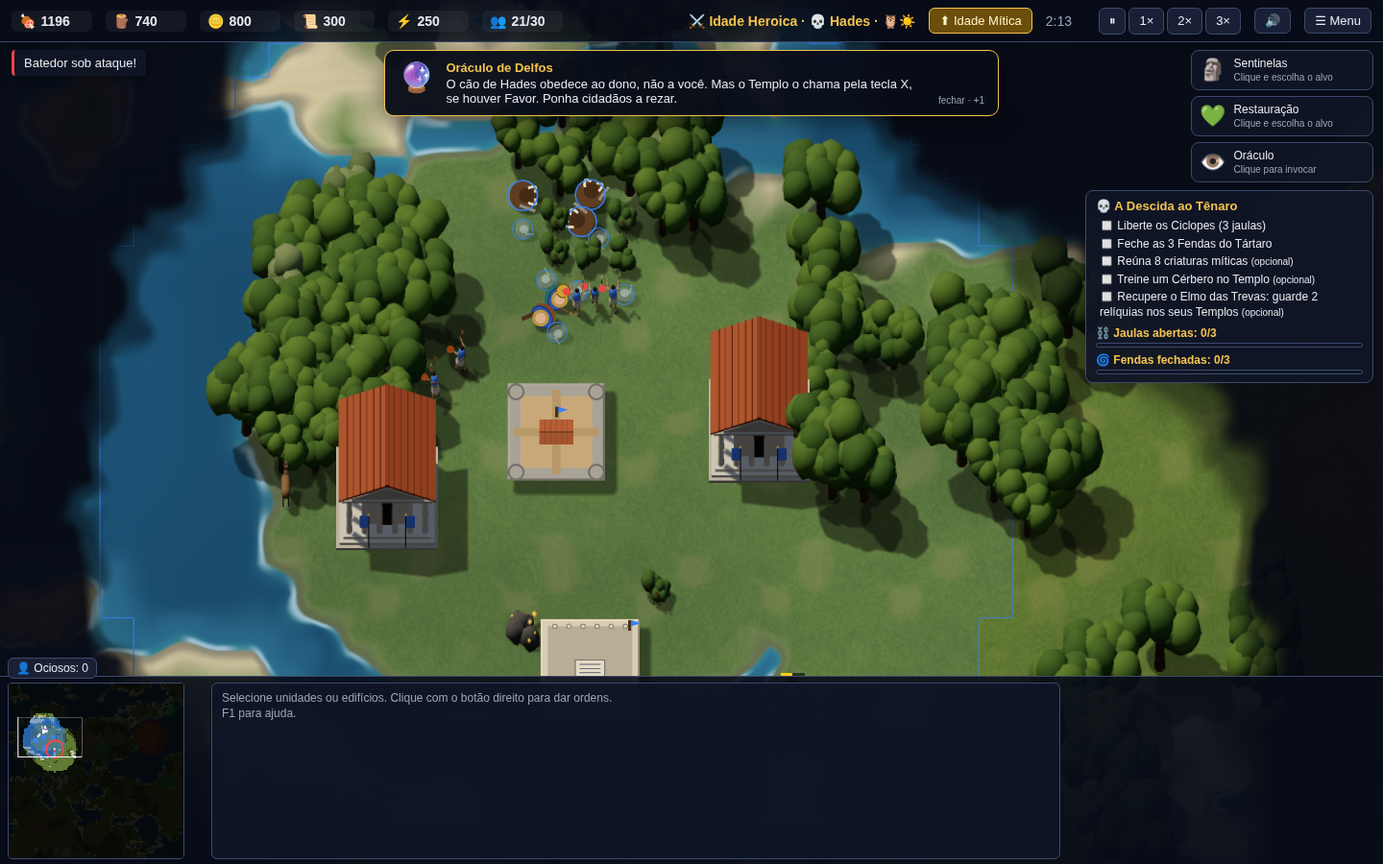
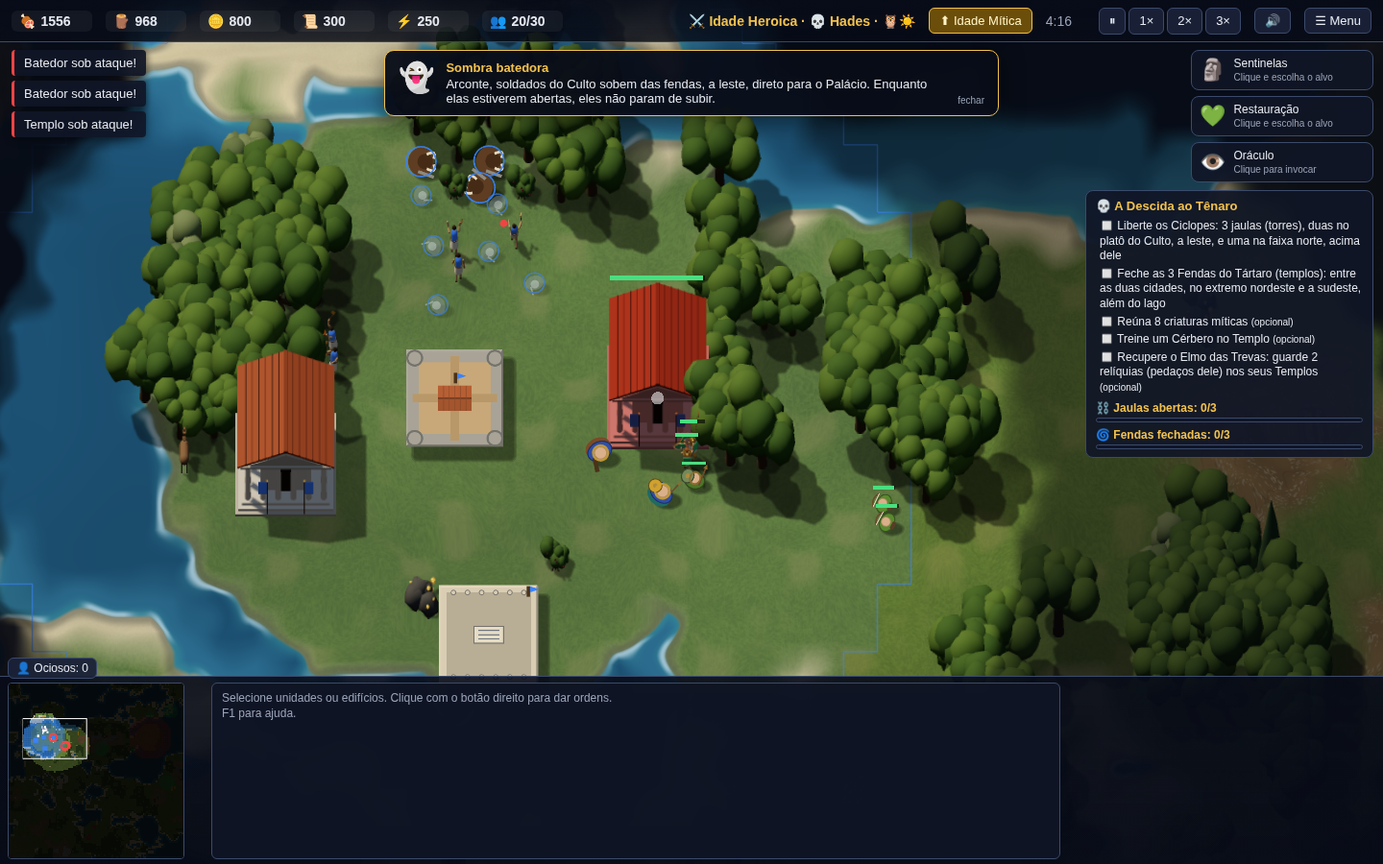
m9: correções da revisão (elenco, míticas do Culto, ondas nas fendas, textos com o onde)
- O Culto não treina heróis (forbid por jogador: Jasão, Odisseu, Aquiles, Héracles, Perseu); o jogador não treina Jasão nem Aquiles.
- O Culto ganha Hermes e Dionísio (Centauros e Hidras) e o Centauro vem primeiro na onda da fenda3, que sobrevive ao corte do Fácil; a dica do triângulo cita as criaturas que de fato aparecem.
- As ondas nascem na própria fenda (spawn escalado + attackMove até o Palácio), no lugar do raid com os ângulos da ficha, que nascia dentro da cidade (ângulo 5 a 5–6 tiles do Palácio).
- Objetivos e dicas dizem onde ficam as jaulas e as fendas, e citam o Oráculo; dica do raio roubado corrigida (fulmina o herói ou a mítica mais forte perto da cidade do Culto); o Elmo é descrito como partido em relíquias.
- O aviso das ondas passa para uma Sombra batedora; a fala da anagnórise vai para o 1º parágrafo do outro (antes saía atrás do modal de vitória).
- A derrota é a queda do Palácio (storeEntity #palacio), como a dica diz.
- Roteiro: vitória aos 21m34s / 22m51s / 32m00s; passiva: derrota aos 13m04s / 11m42s / 8m50s. STORY e ROADMAP atualizados; captura nova da m9.

Claude-Session: https://claude.ai/code/session_01T69iHgagsmM9EBeYq4tRST

diff --git a/docs/STORY.md b/docs/STORY.md
@@ -149,7 +149,7 @@ Legenda:
 | 6 | `m6_estatua` *(produzida)* | A Estátua de Zeus / *The Statue of Zeus* | **Maravilha com guarda cronometrada** (cobra: Idade Mítica pela Academia) | **maravilha** | Heroica | gen M continental, 6606 | 25–30 | ✅ | G4 ✅ (barra da guarda), G6 ✅, G8 ✅ |
 | 7 | `m7_aquiles` *(produzida)* | A Cólera de Aquiles / *The Wrath of Achilles* | **Caça ao herói** com o poder Oráculo (cobra: defesa de aldeias) | **caça ao herói** | Heroica | gen M forest, 7707 | 20–30 | ✅ | — (G11 ✅ permitiria trocar o paliativo de Tétis; decisão do dono) |
 | 8 | `m8_oceano` | A Maré de Oceano / *The Tide of Oceanus* | **Chefe-Titã com contagem regressiva**, Raio, invocar Prometeu (cobra: muralhas e torres) | **defesa** + chefe | Mítica | fixo 128×128 "Golfo da Argólida" | 30–35 | ✅ | — |
-| 9 | `m9_tenaro` *(produzida)* | A Descida ao Tênaro / *The Descent at Taenarum* | **Criaturas míticas, jogando como Hades** (cobra: heróis contra míticas) | resgate + cerco leve | Heroica | gen M lakes, 9909 | 25–30 | — | — (usa G3, G4, G6 `maxAge`, G8, G10 e G11 `powerUsed` ✅) |
+| 9 | `m9_tenaro` *(produzida)* | A Descida ao Tênaro / *The Descent at Taenarum* | **Criaturas míticas, jogando como Hades** (cobra: heróis contra míticas) | resgate + cerco leve | Heroica | gen M lakes, 9909 | 25–30 | — | — (usa G3, G4, G6 `maxAge` e `forbid`, G8, G10 e G11 `powerUsed` ✅) |
 | 10 | `m10_otris` | O Cerco de Ótris / *The Siege of Othrys* | **Cerco** (helépoles, muralhas concêntricas) + **Rei da Colina** no altar | **cerco** + **rei da colina** | Mítica | fixo 144×144 "Monte Ótris" | 30–35 | — | G2 ✅, G4 ✅ |
 | 11 | `m11_chamas` | Argos em Chamas / *Argos in Flames* | **Êxodo + poderes divinos um a um** (cobra: proteger o líder) | **regicídio** (proteger o arconte) + escolta em massa | Mítica | fixo 128×128 "Argólida em Chamas" | 18 (fixo) | — | G8 ✅, G9 ✅, G6 ✅ |
 | 12 | `m12_titanomaquia` | O Fim da Idade de Ouro / *The End of the Golden Age* | **Batalha final 3 × 1**: altares, depois Cronos, com Titãs (cobra: tudo) | **cerco** + chefe em fases | Mítica | fixo 144×144 "Planície da Tessália" | 35–40 | — | G6 ✅, G9 ✅ |
@@ -1090,15 +1090,24 @@ A paleta de bioma "Submundo" é visual e pedido da Fase 2 [G14]. Até lá, o ter
 
 **Produção (26/09/2026, `src/core/scenario/missions/m9_tenaro.scenario.json`) — o que mudou em relação ao JSON acima:**
 - **Posições no mapa real 9909.** Início 0 (Hades) em (22,34), início 1 (Culto) em (90,34), início 2 (sem ninguém) em (56,96). O platô do Culto (x 73–97, y 22–43) tem **uma só entrada por terra**, uma passagem de 3 tiles entre a serra e a mata (x 69–75, y 36–38); a faixa norte (y 12–21) e a terra do sudeste se alcançam por outros caminhos. Pelos deslocamentos da ficha, `jaula1`, `jaula2`, `fenda1` e `fenda2` caíam em bolsões inalcançáveis (clareiras da mata e a ponta leste depois do lago), e a 1ª tentativa de `fenda1` fechava a entrada do platô. Ficou assim (relativo ao início 1): `jaula1` (−10,+6), na borda sudoeste do platô; `jaula2` (+5,−5), junto ao Centro Cívico do Culto; `jaula3` (0,−14), na faixa norte (igual à ficha); `fenda1` (−32,+6), a oeste da entrada do platô; `fenda2` (+10,+28), além do lago do sul; `fenda3` (+12,−18), na ponta leste da faixa norte. Todas conferidas com `rectReachable` a partir do Palácio (a pé: 38 a 160 tiles). Os Ciclopes nascem no ponto da própria jaula.
-- **Ouro do Culto (paliativo do mapa).** A semente 9909 não põe ouro a menos de 26 tiles do início 1: a IA do Culto erguia minas junto ao Centro Cívico, mandava 20 cidadãos atravessar o mapa e não treinava **nenhum** soldado em 14 min. O Culto ganha **+1000 de ouro no `setup`** e **+100 por minuto** enquanto estiver de pé (gatilho `tesouro`); com isso chega à Mítica aos ~9 min, ergue Templo e exército e é eliminado pelo roteiro entre os 21 e os 26 min. Nem a IA nem os dados mudaram.
+- **Ouro do Culto (paliativo do mapa).** A semente 9909 não põe ouro a menos de 26 tiles do início 1: a IA do Culto erguia minas junto ao Centro Cívico, mandava 20 cidadãos atravessar o mapa e não treinava **nenhum** soldado em 14 min. O Culto ganha **+1000 de ouro no `setup`** e **+100 por minuto** enquanto estiver de pé (gatilho `tesouro`); com isso chega à Mítica aos ~9–10 min, ergue Templo e exército e é eliminado pelo roteiro aos ~21 min no Fácil e no Normal e só no fim (~32 min) no Difícil. Nem a IA nem os dados mudaram.
 - **Idade máxima Mítica** (`config.maxAge: 3`, G6) no lugar de `forbid: titan_gate`: o Titã de Hades seria o próprio Cronos, e sem o teto as duas IAs guardavam ouro para a Idade dos Titãs (o Culto a alcançava aos ~16 min) em vez de treinar.
 - **Dificuldade com G3:** fendas a cada 150/120/90 s e Perseu aos 60/90/150 s, como a ficha pede. `every` é o resto da divisão do relógio, então os `after` 180/240/300 da ficha não escalonam as fendas: elas pulsam juntas (no Normal, `fenda1` e `fenda2` aos 240 s e as três a partir dos 360 s).
 - **Relíquias (G10):** `map.relics` = [97,66] (perto da `fenda2`), [55,44] (perto da `fenda1`) e [95,13] (perto da `fenda3`); objetivo secundário `elmo` = 2 relíquias guardadas. Lint sem avisos (terra alcançável).
 - **Segredo `sombras` com G1** (`done` direto, sem gatilho espelho); o gatilho `sombras_legiao` dá os 150 de Favor quando ele se cumpre.
 - **Nomes (G8):** Jaula de Brontes / Estéropes / Arges e Fenda do Estige / Aqueronte / Flegetonte; facções `{ pt, en }` (*Legions of Hades*, *Cult of Cronus*, *Jailers of Cronus*).
 - **HUD (G4):** contadores "⛓ Jaulas abertas n/3" e "🌀 Fendas fechadas n/3" (`hud.progress { var, format: count }`).
-- **Falas novas** (além das da ficha): a Pítia com a tecla X do Cérbero (75 s); Hades na 1ª onda das fendas; Hades quando o Culto usa o **raio roubado** (`powerUsed`, G11 — a IA do Culto o gasta em Héracles ou Perseu no começo, e a fala diz que ele só cai uma vez); Arges com as três jaulas abertas; Hades ao recuperar o Elmo das Trevas ("foi com ele que Lícaon se escondeu entre os meus sacerdotes"); Hades no prêmio das Sombras. Dicas (`hints`) sobre o Palácio, o triângulo, o raio do Culto, as Sombras, as jaulas e fendas e as relíquias.
-- **Passiva:** derrota aos 13m39s / 11m25s / 7m36s (o rascunho media 15/10/8).
+- **Falas novas** (além das da ficha): a Pítia com a tecla X do Cérbero (75 s); uma **Sombra batedora** (👻) na 1ª onda das fendas; Hades quando o Culto usa o **raio roubado** (`powerUsed`, G11 — a IA do Culto o gasta em Héracles ou Perseu no começo, e a fala diz que ele só cai uma vez); Arges com as três jaulas abertas; Hades ao recuperar o Elmo das Trevas ("foi com ele que Lícaon se escondeu entre os meus sacerdotes"); Hades no prêmio das Sombras. A fala da anagnórise (`pacto`, "Lícaon me usou como um manto") virou o 1º parágrafo do `outro`. Dicas (`hints`, 7) sobre o Palácio, o triângulo (com as míticas que o Culto de fato usa), o raio do Culto, as Sombras, as jaulas (com o lugar de cada uma), as fendas (com o lugar e o Oráculo de Apolo) e o Elmo.
+- **Passiva:** derrota aos 13m04s / 11m42s / 8m50s (o rascunho media 15/10/8; a 1ª produção, com as ondas nascendo dentro da cidade, 13m39s / 11m25s / 7m36s).
+- **Revisão (26/09/2026), o que mudou depois da 1ª produção:**
+  - **Elenco:** o Templo da IA treina primeiro `perseus`, `achilles`, `heracles`, `odysseus` e `jason` (`ai.ts`), e o Culto punha Jasão (morto na m8), Odisseu (em dívida com Argos) e Aquiles (morto na m7) contra o jogador. O Culto tem `forbid.units` com os cinco heróis (G6 por jogador) e o jogador 0 não treina `jason` nem `achilles`.
+  - **Míticas do Culto** (a mecânica cobrada): com a Heroica pronta ele começava sem deuses menores e gastava o Favor em heróis, e o Pégaso da ficha é batedor desarmado (a IA o ignora). Agora `set minorGods: ["hermes", "dionysus"]` no `setup` (Centauros e Hidras, poderes Cessar-fogo e Pele de Bronze; na Mítica a IA ainda escolhe Hera ou Ártemis) e o Centauro vem **primeiro** na onda da `fenda3` (sobrevive ao corte do Fácil). Medido no roteiro: Centauros das fendas nas três dificuldades a partir de 5–6 min; Medusa, Centauro e Hidra do Culto no Normal e no Difícil (no Fácil o Culto não chega a treinar míticas). A dica do triângulo cita essas criaturas.
+  - **Ondas das fendas:** o `raid` com `angle` 3/1/5 da ficha nascia a oeste e dentro da cidade (a origem do ângulo 5 recuava até 5–6 tiles do Palácio, com o petróbolo já ao alcance dele), e os ângulos 0/7/1 põem a origem em cima das minas de ouro do jogador, a 22 tiles do Palácio (com o Culto já sem heróis, o Difícil do roteiro perdia aos 14–16 min com `distance` de 22 a 34). Cada onda agora **nasce na própria fenda** (`spawn` com `scaled` + `order attackMove` até `{ tc: 0 }`, o padrão de "desligar a fonte" da m5): chegam ao Palácio em ~12 s (Estige), ~35 s (Flegetonte, pela faixa norte) e ~35 s (Aqueronte, cavalaria). Por não serem `raid`, o harness não as conta em "invasões" (0/0).
+  - **Textos com o onde:** objetivos `jaulas` ("duas no platô do Culto, a leste, e uma na faixa norte, acima dele") e `fendas` ("entre as duas cidades, no extremo nordeste e a sudeste, além do lago"); dicas com a jaula de cada Ciclope (a de Estéropes junto ao Centro Cívico do Culto: é preciso invadir a cidade dele) e o Oráculo para achar as fendas.
+  - **Raio roubado:** a IA lança o Raio no herói ou mítica de maior `maxHp` (×1,5 se herói) a até 40 tiles do Centro Cívico dela, sem olhar névoa nem escolta; a dica agora diz isso e manda um Cérbero na frente com os heróis longe (a Fenda do Estige e a relíquia [55,44] já estão ao alcance).
+  - **Elmo:** as três relíquias são iguais; a dica e o objetivo dizem que o Elmo foi partido e que duas relíquias (pedaços) nos Templos o recompõem.
+  - **Tom (§1.2):** o aviso das ondas saiu de Hades para a Sombra batedora. Hades fala no início, no raio roubado (virada), no Elmo (a pista de como Lícaon se escondeu) e no prêmio das Sombras: exceção registrada por ele ser o patrono do jogador nesta missão, como Zeus nas de Argos; a fala final está no `outro`.
+  - **Derrota:** o `setup` guarda o Palácio (`storeEntity` `#palacio` = `{ tc: 0 }`) e a derrota é `{ entity: { tag: "palacio" }, exists: false }`, como a dica diz ("o Centro Cívico inicial"); antes, com uma 2ª cidade, perder o Palácio não encerrava a missão.
 
 **Dificuldade:**
 - **Hoje:** as ondas das fendas escalam e o Culto joga como IA Difícil.
@@ -1621,7 +1630,7 @@ Cada missão ganha 4 verificações, rodadas por `npx tsx scripts/missions.ts` e
 | m6 | Sem Mítica e sem Estátua: não vence. **Medido no rascunho:** ainda em jogo aos 20 min no Fácil e no Normal; derrota perto dos 19 min no Difícil. **Medido (produção):** em jogo aos 14 min nas três dificuldades (as 2 ondas da Frota, ambas com unidades); com 25 min, em jogo no Fácil, em jogo no Normal com Micenas caída aos 19m28s (Maravilha da Liga aos 14m53s), derrota aos 15m32s no Difícil (remedido depois da revisão, com o `micenas` contando só CC pronto; 19m28s = 1168 s, o mesmo instante registrado antes como 19m27s) | IA econômica chega à Mítica; o roteiro manda construir `wonder_zeus` perto do CC e pôr 6 cidadãos em `repair`. **Produção:** defesa sempre (`hold`), cofre com o custo da Estátua na Mítica, obra com 6 cidadãos quando há ≥ 28 militares, até 4 torres ao redor, 6 cidadãos no reparo, exército a ≤ 28 tiles da Estátua e foco no Colosso | 25–35 min · janela estrita 17m30s–39m. **Medido:** vitória aos 19m17s / 22m36s / 24m35s (Fácil / Normal / Difícil); Mítica aos 6m22s / 8m39s / 6m20s, Estátua pronta aos 14m16s / 16m35s / 18m34s, nenhuma queda, 5 / 7 / 7 invasões (todas com unidades), segredo cumprido no Normal e no Difícil. **Depois da revisão** (`npx tsx scripts/missions.ts 14 m6_estatua easy,normal,hard`): os mesmos 19m17s / 22m36s / 24m35s, passiva em jogo aos 14 min nas três, todos os objetivos cumpridos (menos o segredo no Fácil, que não tem 2º Colosso) **Depois da correção do viés de posição (26/09/2026):** 19m36s / 20m02s / 22m17s. |
 | m7 | Aquiles queima as aldeias uma a uma (`aldeias` falha); não vence. **Medido no rascunho:** as 4 aldeias são colocadas, e `rota1`/`rota2` derrubam as aldeias 1 e 2 em 20 min. **Medido (produção, depois da revisão):** em jogo aos 14 min nas três dificuldades; as aldeias caem uma por marcha, sempre com Aquiles a ≤ 1,4 tile (a escolta sai com ele do acampamento): aos 2m54s / 6m54s / 11m01s / 15m07s no Fácil (3 em 14 min), 2m54s / 5m54s / 9m01s / 12m08s no Normal e 2m53s / 4m54s / 7m00s / 9m07s no Difícil; `aldeias` falha na 3ª; a invasão da Liga (a única `raid`) tem unidades | Arqueiros cretenses e hipaspistas esperam na `aldeia2`; o poder Oráculo é usado aos 150 s. **Produção:** defesa (`hold`), Oráculo e Raio guardados para o roteiro (`keepPowers`), cidadãos até 40, filas militares (hipaspistas, arqueiros cretenses, cavalaria e petróbolos) com Estábulo e Oficina de Cerco, Oráculo quando Aquiles marcha (150 s), **vigia**: depois da 1ª marcha, o exército espera Aquiles na aldeia da vez (aldeia2 → 3 → 4) quando tem ≥ 2 × quem marcha com ele e volta para casa com inimigos a até 22 tiles do CC (a Liga), Raio/Restauração na batalha (o Raio em Aquiles só o devolve às naus), assalto às naus com ≥ 80 militares e ≥ 2 × os do jogador 2 (infantaria, cavalaria e cerco na Fortaleza; arqueiros nos mirmidões) e, sem as naus, todos em Aquiles | 20–30 min · janela estrita 14m–39m. **Medido (depois da revisão):** vitória aos 16m26s / 16m16s / 19m58s (Fácil / Normal / Difícil), com o acampamento queimado aos 16m26s / 16m13s / 19m57s e Aquiles morto junto dele. **Interceptar salva aldeias:** no Fácil a vigia chega à aldeia2 (que cai mesmo assim aos 6m55s, com o Raio em Aquiles 1 s antes) e **salva a aldeia3 e a aldeia4** (Aquiles cai na aldeia3 aos 10m55s) — `aldeias` **cumprido**; no Normal a vigia só tem força a partir da aldeia4, que é salva (Aquiles cai aos 11m46s), e `aldeias` falha (3 perdidas); no Difícil o exército não chega a 2 × a marcha antes da aldeia4 e as quatro caem. Tétis devolveu Aquiles 22 / 20 / 6 vezes (a maioria no cerco às naus); o aviso do Batedor saiu uma vez em cada dificuldade. Antes da revisão: 22m54s / 19m48s / 19m05s, as quatro aldeias perdidas nas três e o exército na `aldeia2` só quando a 2ª marcha saía (tarde) **Depois da correção do viés de posição (26/09/2026):** 17m47s / 17m00s / 22m52s, com o reagrupamento antes do assalto; `aldeias` falha nas três. |
 | m8 | Oceano derruba o CC: **derrota** em 12–20 min | IA econômica, 8 torres no sul, Raio em Oceano ao surgir, heróis em `attack` na tag `oceano` | 13–25 min |
-| m9 | Ondas das fendas até o Palácio cair. **Medido no rascunho:** derrota aos 15, 10 e 8 min (Fácil, Normal, Difícil). **Medido (produção):** derrota aos 13m39s / 11m25s / 7m36s; 12 / 11 / 9 invasões até a derrota, todas com unidades | Míticas e heróis fazem `attackMove` para `jaula1..3` e depois `fenda1..3`. **Produção:** casas antes do teto de população, filas com as míticas do Templo, e um alvo por vez na ordem da caminhada (`fenda1` → `jaula1` → `jaula2` → `jaula3` → `fenda3` → `fenda2`), cada um quando o exército tem ≥ 40 militares (detalhes abaixo) | 22–35 min (§7.2) · janela estrita 17m30s–39m (§4 ±30 %). **Medido:** vitória aos 24m53s / 22m42s / 33m52s (Fácil / Normal / Difícil); `miticas`, `cerbero` e `elmo` cumpridos nas três, segredo `sombras` em nenhuma; 20 / 22 / 50 invasões, todas com unidades; o Culto é eliminado entre os 21 e os 26 min |
+| m9 | Ondas das fendas até o Palácio cair. **Medido no rascunho:** derrota aos 15, 10 e 8 min (Fácil, Normal, Difícil). **Medido (produção):** derrota aos 13m39s / 11m25s / 7m36s; 12 / 11 / 9 invasões até a derrota, todas com unidades. **Depois da revisão** (ondas nascendo nas fendas, sem `raid`): 13m04s / 11m42s / 8m50s | Míticas e heróis fazem `attackMove` para `jaula1..3` e depois `fenda1..3`. **Produção:** casas antes do teto de população, filas com as míticas do Templo, e um alvo por vez na ordem da caminhada (`fenda1` → `jaula1` → `jaula2` → `jaula3` → `fenda3` → `fenda2`), cada um quando o exército tem ≥ 40 militares (detalhes abaixo) | 22–35 min (§7.2) · janela estrita 17m30s–39m (§4 ±30 %). **Medido:** vitória aos 24m53s / 22m42s / 33m52s (Fácil / Normal / Difícil); `miticas`, `cerbero` e `elmo` cumpridos nas três, segredo `sombras` em nenhuma; 20 / 22 / 50 invasões, todas com unidades; o Culto é eliminado entre os 21 e os 26 min. **Depois da revisão:** vitória aos **21m34s / 22m51s / 32m00s**; `miticas` e `cerbero` nas três, `elmo` só no Normal, `sombras` em nenhuma; o Culto cai aos ~21 min no Fácil e no Normal e só no fim no Difícil |
 | m10 | Sortidas até o CC cair: **derrota** em 15–25 min | Exército no altar até `altar_s` = 120; helépoles em `portao_bronze` e depois nos pilares | 25–40 min |
 | m11 | Ninguém embarca: **derrota** aos 18 min (ou antes, se o arconte cair) | Arconte e cidadãos fazem `move` até `naus` em 3 levas (aos 200, 500 e 740 s); poderes usados nos grupos das ondas | vitória entre 13 e 18 min |
 | m12 | Os aliados seguram; aos 25 min Cronos surge e derruba a Nova Argos: **derrota** em 30–40 min | IA econômica com os aliados; o exército faz `attackMove` nos 3 altares; Raio e Perseu em Cronos | 30–45 min |
@@ -1644,7 +1653,7 @@ Cada missão ganha 4 verificações, rodadas por `npx tsx scripts/missions.ts` e
 - Roteiro da **m6** (`MISSION_SCRIPTS.m6_estatua`, janela 17m30s–39m, `hold` sempre): a IA do jogador sobe à Mítica sozinha (a 4ª pesquisa da Academia); na Mítica, o **cofre** (`reserve`, utilitário novo do harness: enquanto a condição vale, a parte guardada do estoque fica escondida da IA do jogador durante o `aiThink` e volta logo depois; os passos veem tudo) segura 800/800/600/100 até a obra começar, senão a IA gastaria tudo a caminho da Idade dos Titãs. Com o custo e ≥ 28 militares, 6 cidadãos erguem a Estátua perto do CC; depois, até 4 torres a ≤ 9 tiles dela, 6 cidadãos no reparo sempre que ela sofre dano, filas militares com a sobra, o exército volta quando passa de 28 tiles, fuga da Tempestade, Raio/Restauração e foco no Colosso perto da Estátua. Sem o cofre, a Estátua não sai (Normal: em jogo aos 40 min, só `mitica` cumprida); nos rascunhos sem a espera pelo exército, ela saía cedo e caía no Difícil (derrota aos ~13 min). Um cofre que nunca vale não muda nada (mesmo `stateHash`, teste em `tests/missions.test.ts`).
 - Roteiro da **m7** (`MISSION_SCRIPTS.m7_aquiles`, janela 14m–39m, `hold` sempre): a IA do jogador guarda o Oráculo e o Raio (**poderes guardados**, `keepPowers`, utilitário novo do harness: durante o `aiThink` a IA os vê como já usados; os passos os usam na hora certa; sem o campo, nada muda) — ela gastaria o Oráculo no 2º segundo e o Raio no primeiro mirmidão perto de casa. Oráculo quando Aquiles marcha (`rota1`), **vigia** (`m7Guard`: depois da 1ª marcha, o exército espera Aquiles na aldeia da vez — a da marcha em curso, se ainda de pé com inimigos perto, ou a próxima ainda não atacada — quando tem ≥ `M7_GUARD_RATIO` = 2 × quem marcha com ele: Aquiles, os mirmidões do desembarque vivos e 5 de escolta; com inimigos a até 22 tiles do CC, volta para casa. Medido na revisão: sem essa folga, 18 militares na aldeia2 aos 5 min morriam todos e a IA do jogador não se reerguia, derrota aos 25–29 min no Normal e no Difícil), Raio/Restauração por `battlePowers`, Estábulo e Oficina de Cerco se a IA não os ergueu (sem petróbolos, as flechas mal arranham a Fortaleza e os assaltos do Difícil morriam nela até os 32–34 min). **Assalto às naus por estado, não por relógio:** com ≥ 80 militares e ≥ 2 × os do jogador 2 (continua enquanto metade do exército estiver a até 18 tiles delas: alguns perseguidores que chegam às naus atrás dos mirmidões não arrastam o exército inteiro); antes de avançar, sem ninguém lutando nas naus, o exército se **reagrupa** a `M7_STAGE` = 26 tiles delas (no rumo de Argos) e só avança com ≥ 70 % no ponto; perto delas, infantaria, cavalaria e cerco batem no acampamento e os arqueiros ficam nos mirmidões. Queimadas as naus, todos atrás de Aquiles. Medido nos rascunhos: com 55–70 militares a vitória saía aos 13–15 min em alguma dificuldade (no limite ou abaixo da janela); sem reforços fixos das naus, o Fácil ficava no limite (14m02s); com a pilha de mirmidões parando nas cinzas, a IA do jogador perdia o CC aos 5–7 min ou vencia aos 5–10 min por acaso.
   - **26/09/2026** (correção do viés de posição): o Fácil vencia aos 13m58s, abaixo da janela. A causa não era o roteiro, e sim a IA da Liga. A nova ordem de `findBuildSpot` encostava a mina no único veio de ouro dela (em [103,43], com 2 tiles de acesso) e o fechava. O nó sumia para `nearestNode`, e os mineiros iam ao ouro junto de Argos, a ~60 tiles. Ela perdeu 19 cidadãos até os 4 min e desmoronou. Corrigido na IA: `sealsNode` impede que um edifício tire o último acesso de um recurso. Depois disso, o 1º assalto do Normal e do Difícil chegava às naus aos poucos: 14 militares aos 14m00s e o resto 10–20 s depois, e o exército caiu de 82 para 39 em 1 min. Normal e Difícil passaram a vencer só aos 29m08s / 29m16s. Com o reagrupamento, o resultado é 17m47s / 17m00s / 22m52s. `aldeias` agora falha também no Fácil: a aldeia3 cai. Medido pelo revisor: sem o reagrupamento (e já com `sealsNode`) a m7 dá 15m13s (`aldeias` cumprido) / 29m08s / 29m16s — dentro da janela, então o reagrupamento não foi posto para caber nela; ele encurta Normal/Difícil, mas custa 2m34s e a aldeia3 no Fácil. Detalhe: com mais de 30 % do exército lutando longe do ponto, o passo espera o combate acabar.
-- Roteiro da **m9** (`MISSION_SCRIPTS.m9_tenaro`, janela 17m30s–39m, `hold` sempre): a IA do jogador joga por Hades (economia, defesa do Palácio, Sentinelas) e nunca sai em ondas; os passos treinam cidadãos até 40, erguem uma **Casa** perto do Palácio sempre que faltam menos de 15 de população (`m9House`: a IA só ergue a próxima com ≤ 6 de folga e as míticas ocupam 3 a 5 cada; sem isso o Normal ficava em 70/70 dos 7 aos 14 min e só fechava a 1ª fenda aos ~19 min, com 2 jaulas abertas aos 40 min), enchem as filas com `M9_MIX` (Minotauros, Mantícoras e Cérberos do Templo, hipaspistas, arqueiros cretenses e petróbolos) e atacam **um alvo por vez, na ordem da caminhada** a partir do Palácio (`M9_TARGETS`: `fenda1` a 38 tiles a pé, `jaula1` 64, `jaula2` 84, `jaula3` 87, `fenda3` 101 e `fenda2` 160), cada um quando o exército tem ≥ `M9_ASSAULT_ARMY` = 40 militares (estado, não relógio; o assalto segue enquanto ≥ 10 estiverem a 16 tiles do alvo) e com foco na jaula ou na fenda a 10 tiles. A ficha pedia as jaulas antes das fendas; a caminhada põe a `fenda1` (fora do platô) primeiro e a `fenda2` (além do lago do sul) por último. Os heróis vão com o exército; a IA do jogador manda o herói ocioso buscar a relíquia mais perto (até 45 tiles), e o Raio do Culto derruba Héracles no 1º minuto nas três dificuldades (Perseu chega depois e guarda as relíquias). **Medido:** 24m53s / 22m42s / 33m52s; no Difícil a economia desaba entre os 20 e os 26 min (4 a 9 cidadãos) e ele vence com a força já reunida e os 6 Ciclopes libertados. O Fácil vence depois do Normal (a 1ª fenda cai aos ~15 min, contra ~11,5 min): o exército do Fácil chega aos 40 militares mais tarde — partida de IA, caótica, sem relação com o desenho (ondas menores e mais espaçadas no Fácil).
+- Roteiro da **m9** (`MISSION_SCRIPTS.m9_tenaro`, janela 17m30s–39m, `hold` sempre): a IA do jogador joga por Hades (economia, defesa do Palácio, Sentinelas) e nunca sai em ondas; os passos treinam cidadãos até 40, erguem uma **Casa** perto do Palácio sempre que faltam menos de 15 de população (`m9House`: a IA só ergue a próxima com ≤ 6 de folga e as míticas ocupam 3 a 5 cada; sem isso o Normal ficava em 70/70 dos 7 aos 14 min e só fechava a 1ª fenda aos ~19 min, com 2 jaulas abertas aos 40 min), enchem as filas com `M9_MIX` (Minotauros, Mantícoras e Cérberos do Templo, hipaspistas, arqueiros cretenses e petróbolos) e atacam **um alvo por vez, na ordem da caminhada** a partir do Palácio (`M9_TARGETS`: `fenda1` a 38 tiles a pé, `jaula1` 64, `jaula2` 84, `jaula3` 87, `fenda3` 101 e `fenda2` 160), cada um quando o exército tem ≥ `M9_ASSAULT_ARMY` = 40 militares (estado, não relógio; o assalto segue enquanto ≥ 10 estiverem a 16 tiles do alvo) e com foco na jaula ou na fenda a 10 tiles. A ficha pedia as jaulas antes das fendas; a caminhada põe a `fenda1` (fora do platô) primeiro e a `fenda2` (além do lago do sul) por último. Os heróis vão com o exército; a IA do jogador manda o herói ocioso buscar a relíquia mais perto (até 45 tiles), e o Raio do Culto derruba Héracles no 1º minuto nas três dificuldades (Perseu chega depois e guarda as relíquias). **Medido (1ª produção):** 24m53s / 22m42s / 33m52s. **Medido depois da revisão** (Culto sem heróis e com Centauros/Hidras, ondas nascendo nas fendas): **21m34s / 22m51s / 32m00s**; a `fenda1` cai aos 9m19s / 11m12s / 19m06s, as três jaulas aos 20m06s / 20m34s / 29m45s e a `fenda2` (a última) fecha a missão. Agora o Fácil vence antes do Normal. No Difícil Perseu cai aos ~7 min, a 1ª fenda só cai aos 19 min e a economia cai a 11–15 cidadãos depois dos 25 min; ele vence com a força reunida e os 6 Ciclopes.
 - Roteiros do prólogo: **m2** — defesa (a IA do jogador nunca sai em ondas), cidadãos até 38, filas militares cheias com mix de infantaria pesada/míticas/arqueiros, fuga da Tempestade de Raios; a partir dos 14 min contra-ataca quando tem ≥ 30 militares e ≥ 2,5 × os da Legião, com Raio/Restauração e foco no Centro Cívico original. **Reajuste de 26/09/2026** (IA relativa ao centro do mapa; a missão não mudou): cidadãos com um militar inimigo a ≤ 6 tiles se abrigam (`shelterVillagers`; no Difícil a onda dos 7 min levava 10 cidadãos que seguiam coletando), o foco no CC só vale com ≤ 4 defensores a 15 tiles — com mais, quem batia no CC volta ao ataque-movimento (`m2Siege`) — e um CC alvo a ≤ 25 % da vida é terminado sem esperar a vantagem. Sem isso o Difícil perdia aos 19m58s (64 militares contra 19 e o CC guarnecido); na 1ª correção, 14m54s / 15m01s / 21m47s; depois do rodízio das IAs por rodada, dos desempates locais e de `sealsNode`, 19m33s / 15m32s / 15m25s (a Fortaleza fica de pé nas três). Na versão intermediária, sem `sealsNode`, o Difícil da m2 ficava em jogo aos 35 min, o da m3 perdia aos 15m19s e o da m6 aos 20m09s. **m3** — defesa e treino enquanto o Culto reza; aos 17,5 min (ritual em ~85 %) assalto ao Portal com foco nele; se Cronos surgir, Raio e exército nele perto de Argos.
 
 ---

diff --git a/docs/ROADMAP.md b/docs/ROADMAP.md
@@ -53,7 +53,7 @@ Objetivo: a Titanomaquia em 3 atos, 12–15 missões.
 | 3.1 | 🔶 Roteiro "Titanomaquia" em `docs/STORY.md`: 12 missões em 3 atos (prólogo m1–m3 intacto + m4–m12), personagens (Pítia, heróis, Lícaon o Rei-Lobo, deuses, Titãs), fichas com JSON validado, lacunas do motor G0–G17, EA = m1–m8. Pendente: revisão do dono (tom, nomes, final) | V + A | 6–8 |
 | 3.2 | ✅ Editor interno (`docs/EDITOR.md` Etapas 3–5): ✅ operações desfazíveis com inversa exata (`src/editor/ops.ts`, `editor.ts`, 24 testes) e renderização do editor (invalidação por chunk, pincel, fantasmas, inícios, kit, grade, regiões, passabilidade). ✅ interface DOM (aba Editor: novo/rascunho/Meus mapas/importar; painel com paleta, pincel, jogador ativo, inspetor, validação com Ir até/Corrigir; Testar contra IAs e voltar ao editor; salvar/exportar/propriedades; `playtest-editor.mjs`). ✅ Etapa 5 parte 1: cenários declarativos em JSON (`src/core/scenario/schema.ts`, `compile.ts`, `text.ts`; gramática fechada validada, compilação com cache por idioma, missão 1 em JSON com paridade contra a versão TS, 27 testes). ✅ Etapa 5 parte 2: modal Gatilhos no editor (JSON validado, modelos, pegar ponto), Testar com cenário, Cenários personalizados na campanha, cenário no lobby e `scenarioData` validado em todos os clientes, HUD genérico (`def.hud`), `playtest-scenario.mjs`. ✅ Etapa 4 (25/09/2026): lista de validação com Ir até/Corrigir para todos os avisos corrigíveis (gargalo também de terreno, bolsão, recurso sem acesso, colina, início fora da margem, maravilha, CC sem kit), tabela de recursos por início (raio 16), balde (`F` e botão 🪣), conta-gotas (`P`/💧/`Alt+clique`), redimensionar nas Propriedades (âncora, prévia do que é cortado, desfazível), anel de recursos e colina no editor, atalhos finais sem `A`/`R`/`U` (Unidades = `M`, regiões = `L`); `checkMap` (`src/core/map/check.ts`) em `map:check` e em `tests/data.test.ts`; os dois mapas oficiais redesenhados por script reprodutível com as ops do editor (`scripts/maps/`); `playtest-editor.mjs` cobre balde, conta-gotas, Corrigir gargalo, redimensionar e os mapas oficiais (abrir, testar, voltar; capturas `docs/art/editor-<id>.png`) | A | 7–10 |
 | 3.3 | ✅ Mapas fixos (`docs/EDITOR.md`, Etapas 1–2): formato `FixedMapData` com entidades pré-colocadas, kit inicial, times por início, colina e relíquias; forma canônica, hash, validação (erros/avisos traduzidos), migração; `createGame` aplica tudo; hash do estado cobre terreno e nós; biblioteca local (Meus mapas), mapa embutido `estreito`, seletor na Partida rápida e no lobby (validação, limite de oponentes, ordem de inícios por time), importar/exportar/guardar, `scripts/export-map.ts`, `mapcheck.ts`, `smoke/balance -- --map`. Dois mapas oficiais desenhados por script (Etapa 4, `scripts/maps/estreito.ts` e `egeu.ts`, com as ops do editor, simetria exata e vizinhança de cada início idêntica também na orientação): **Estreito** (1v1, 80×80: estreito diagonal com três vaus, o central guardado por rochedos) e **Egeu** (2v2, 113×113, times `[1,1,2,2]`: mar com três ilhas ligadas às costas por baixios, colina e ouro na ilha central); sem avisos, recursos idênticos por início, sem relíquias sorteadas, nenhuma rota selável por um único edifício (corte ≥ 5, `routeReport`) e reprodutíveis (teste). Balanço (35 min, IA Normal): Estreito Clássica 5–6, Heroica 13–18, Mítica 17–21, Titãs 27; Egeu (4 IAs) Clássica 5–6, Heroica 13–17, Mítica 18–22, Titãs 25–32; nenhuma IA parada aos 5 min. Justiça em espelho (`fairness.ts`, 45 min, duas ordens de inícios, decididas + à frente), depois da correção do viés de posição do motor/IA (26/09/2026; antes o Egeu dava norte 23 × 7 nas sementes 1–16 e 33 × 11 nas 101–124): a posição não decide mais — união de 96 partidas por mapa: Egeu 45 × 44 decididas, Egeu transposto 49 × 40, Estreito 48 × 46 —, mas nem todo conjunto de 16 sementes passa: Estreito 1–16 por posição 11 × 21 (66 %) e Egeu 1–16 por índice 10 × 20 decididas (67 %; 63 % com as à frente); as sementes 101–132 ficam dentro nos dois eixos (`docs/EDITOR.md`) | A | 8–9 |
-| 3.4 | 🔶 Produção das missões (2 por semana) com objetivos variados: escolta, defesa, caça ao herói, corrida, maravilha, cerco. ✅ **m4 O Fogo do Cáucaso** (fecha o Ato I; expedição sem cidade, fronteiras e atrito, 2ª cidade; 1º mapa fixo da campanha, "Garganta do Cáucaso" 96×144, gerado de forma reprodutível por `scripts/maps/m4_caucaso.ts` com as operações do editor e embutido no cenário; 3 dificuldades com G3; `tests/m4_caucaso.test.ts`; revisão: Prometeu longe da Águia, falas em fila no HUD, textos que dizem o que e onde, derrotas e contra-ataques corrigidos, Fácil com as 3 correntes). ✅ **m6 A Estátua de Zeus** (abre o Ato II; Maravilha com guarda cronometrada de 6 min, 5 no Fácil, e Mítica pela Academia; mapa gerado continental 6606; Micenas aliada, Liga do Istmo e a Frota de Poseidon como marionete com 2 Colossos; 3 dificuldades com G3, segredo com G1, barra da guarda com G4 (`hud.progress { var }`), Colossos com nome (G8) e Portais dos Titãs proibidos com G6 (`config.forbid`), no lugar dos paliativos; `tests/m6_estatua.test.ts`). ✅ **m5 O Hóspede de Ítaca** (abre o Ato II; escolta de Odisseu da praia de Náuplia a Argos, com a caça guiada pelas torres de sinal, os caçadores da estrada, o vau e o Heraion; Mercado cobrado pelo resgate de 1500 de ouro, oferecido pelo Emissário aos 15/16/17 min ou quando a fogueira do norte cai; 2º mapa fixo, "Planície da Argólida" 128×112, gerado por `scripts/maps/m5_itaca.ts` e embutido no cenário; 3 dificuldades com G3; `tests/m5_itaca.test.ts`). ✅ **m7 A Cólera de Aquiles** (Ato II; caça ao herói com o Oráculo; mapa gerado forest 7707 com as 4 aldeias em pontos alcançáveis, na ordem "a mais perto das naus"; Aquiles, os mirmidões do desembarque e a escolta de cada marcha (marionete) saem juntos do acampamento, queimam uma aldeia por marcha e voltam às naus, e a marcha espera se houver luta no acampamento; paliativo do Raio de Zeus sem G11: Tétis devolve Aquiles às naus a cada queda enquanto o acampamento estiver de pé, que por isso virou objetivo principal (interceptar salva a aldeia; só queimar o acampamento vence); reforços das naus de guarda até um teto (20/26/30); a Liga invade uma vez pelo leste; 3 dificuldades com G3 (marchas a 240/180/120 s), segredo de Odisseu com G1; `tests/m7_aquiles.test.ts`; revisão: textos com o que e onde, falas que não mentem quando o jogador salva aldeias, aviso de Tétis fora do cerco). ✅ **m9 A Descida ao Tênaro** (abre o Ato III; joga-se como Hades, com Minotauros, Mantícoras, Cérbero no Templo e Sombras, e Héracles e Perseu contra as míticas do Culto; mapa gerado lakes 9909 com as 3 jaulas dos Ciclopes (torres dos Carcereiros, marionete) e as 3 fendas (templos) em terra alcançável — pelos deslocamentos da ficha, 4 das 6 caíam em bolsões e uma fechava a única entrada do platô do Culto; relíquias fixas com G10 (secundário do Elmo das Trevas), fendas a 150/120/90 s e Perseu aos 60/90/150 s com G3, segredo das Sombras com G1, nomes com G8, contadores de jaulas/fendas no HUD com G4, Idade máxima Mítica com G6 e a fala do raio roubado com G11 `powerUsed`; o Culto recebe 1000 de ouro e 100/min porque a semente não põe ouro perto do início dele). Pendente: m8, m10–m12 | A | 9–18 |
+| 3.4 | 🔶 Produção das missões (2 por semana) com objetivos variados: escolta, defesa, caça ao herói, corrida, maravilha, cerco. ✅ **m4 O Fogo do Cáucaso** (fecha o Ato I; expedição sem cidade, fronteiras e atrito, 2ª cidade; 1º mapa fixo da campanha, "Garganta do Cáucaso" 96×144, gerado de forma reprodutível por `scripts/maps/m4_caucaso.ts` com as operações do editor e embutido no cenário; 3 dificuldades com G3; `tests/m4_caucaso.test.ts`; revisão: Prometeu longe da Águia, falas em fila no HUD, textos que dizem o que e onde, derrotas e contra-ataques corrigidos, Fácil com as 3 correntes). ✅ **m6 A Estátua de Zeus** (abre o Ato II; Maravilha com guarda cronometrada de 6 min, 5 no Fácil, e Mítica pela Academia; mapa gerado continental 6606; Micenas aliada, Liga do Istmo e a Frota de Poseidon como marionete com 2 Colossos; 3 dificuldades com G3, segredo com G1, barra da guarda com G4 (`hud.progress { var }`), Colossos com nome (G8) e Portais dos Titãs proibidos com G6 (`config.forbid`), no lugar dos paliativos; `tests/m6_estatua.test.ts`). ✅ **m5 O Hóspede de Ítaca** (abre o Ato II; escolta de Odisseu da praia de Náuplia a Argos, com a caça guiada pelas torres de sinal, os caçadores da estrada, o vau e o Heraion; Mercado cobrado pelo resgate de 1500 de ouro, oferecido pelo Emissário aos 15/16/17 min ou quando a fogueira do norte cai; 2º mapa fixo, "Planície da Argólida" 128×112, gerado por `scripts/maps/m5_itaca.ts` e embutido no cenário; 3 dificuldades com G3; `tests/m5_itaca.test.ts`). ✅ **m7 A Cólera de Aquiles** (Ato II; caça ao herói com o Oráculo; mapa gerado forest 7707 com as 4 aldeias em pontos alcançáveis, na ordem "a mais perto das naus"; Aquiles, os mirmidões do desembarque e a escolta de cada marcha (marionete) saem juntos do acampamento, queimam uma aldeia por marcha e voltam às naus, e a marcha espera se houver luta no acampamento; paliativo do Raio de Zeus sem G11: Tétis devolve Aquiles às naus a cada queda enquanto o acampamento estiver de pé, que por isso virou objetivo principal (interceptar salva a aldeia; só queimar o acampamento vence); reforços das naus de guarda até um teto (20/26/30); a Liga invade uma vez pelo leste; 3 dificuldades com G3 (marchas a 240/180/120 s), segredo de Odisseu com G1; `tests/m7_aquiles.test.ts`; revisão: textos com o que e onde, falas que não mentem quando o jogador salva aldeias, aviso de Tétis fora do cerco). ✅ **m9 A Descida ao Tênaro** (abre o Ato III; joga-se como Hades, com Minotauros, Mantícoras, Cérbero no Templo e Sombras, e Héracles e Perseu contra as míticas do Culto; mapa gerado lakes 9909 com as 3 jaulas dos Ciclopes (torres dos Carcereiros, marionete) e as 3 fendas (templos) em terra alcançável — pelos deslocamentos da ficha, 4 das 6 caíam em bolsões e uma fechava a única entrada do platô do Culto; relíquias fixas com G10 (secundário do Elmo das Trevas), fendas a 150/120/90 s e Perseu aos 60/90/150 s com G3, segredo das Sombras com G1, nomes com G8, contadores de jaulas/fendas no HUD com G4, Idade máxima Mítica com G6 e a fala do raio roubado com G11 `powerUsed`; o Culto recebe 1000 de ouro e 100/min porque a semente não põe ouro perto do início dele; revisão: o Culto não treina heróis (G6 `forbid` por jogador) e usa Centauros e Hidras, as ondas nascem nas próprias fendas, objetivos e dicas dizem onde ficam jaulas e fendas, a anagnórise foi para o `outro` e a derrota é a queda do Palácio; roteiro 21m34s / 22m51s / 32m00s). Pendente: m8, m10–m12 | A | 9–18 |
 | 3.5 | 🔶 Testes automatizados por missão (viabilidade sem jogador e com jogador roteirizado): ✅ harness `src/core/scenario/testing.ts` (`runPassive`/`runScripted` com IA no jogador 0 e passos `{ when, command }`; checagens sem exceção, nenhum objetivo antes de 60 s, 1 Titã de cada, invasões geraram unidades, determinismo), `tests/missions.test.ts` (todas as missões do registro × 3 dificuldades, passiva de 6 min) e `scripts/missions.ts` (linha por missão × dificuldade, roteiro longo com janela de vitória); ✅ motor da campanha G0 (registro `CAMPAIGN` por ato, aba Campanha com atos e selo Prólogo, conquistas geradas), G1, G2, G3, G5 e G7 (`docs/STORY.md` §6); ✅ lacunas do Ato III: G4 (`hud.progress { var, max }`, `hud.countdown { fromVar }`, `Value { time: true }`), G6 (`remove`, `order garrison/ungarrison`, `config.maxAge`/`config.forbid` globais e por jogador, conferidos nos comandos, na IA e no HUD), G8 (`spawn`/`place { name }`, nome de facção `{ pt, en }`) e G9 (condição `hp`, `hpFloor`, `damage`/`heal`); ✅ G10 (`map.relics` em lista, `Value { stat: relics }`), G11 (`set { powers: { add, remove, reset } }`, `powerUsed`), G12 (`ability` do herói por roteiro), G13 (`kills` com autor, registro que não muda a simulação) e G17 (`repeat { max }`, `vars['@id']`), sem mudar o desenho das missões (m7 segue com Tétis; a troca por G11 fica para o dono); m4/m5/m6 trocaram o paliativo do Portal dos Titãs por `forbid`; correções do prólogo (m3 aliados no time 0; m1 derrota ao perder tudo). ✅ roteiro da m4 (assaltos por estado, ≥ 55 militares, sem relógio: vitória aos 18m47s / 19m51s / 19m48s na janela estrita 17m30s–39m; passiva em jogo aos 14 min; `earlyOk` para objetivos legítimos antes de 60 s). ✅ roteiro da m6 (vitória aos 19m17s / 22m36s / 24m35s na janela estrita 17m30s–39m; passiva em jogo aos 14 min) e o cofre `reserve` no harness (a IA do jogador não gasta a parte guardada do estoque). ✅ roteiro da m5 (jogador paciente: escolta na praia, guarda do Heraion, ouro do resgate guardado, viagem na trégua comprada; vitória aos 15m55s / 16m55s / 17m55s na janela estrita 14m–32m30s; passiva com derrota aos 2m45s / 2m40s / 2m54s) e o destacamento `detach` no harness (unidades que a IA do jogador não comanda). ✅ roteiro da m7 (Oráculo quando Aquiles marcha, vigia na aldeia da vez com ≥ 2 × a marcha, assalto às naus com ≥ 80 militares e 2 × os mirmidões, depois Aquiles: vitória aos 16m26s / 16m16s / 19m58s na janela estrita 14m–39m, com `aldeias` cumprido no Fácil; passiva em jogo aos 14 min) e os poderes guardados `keepPowers` no harness (a IA do jogador não gasta os poderes que o roteiro usa na hora certa). ✅ Reajuste de 26/09/2026, depois da correção do viés de posição (só roteiros; nenhuma missão mudou; causas medidas por sonda contra a main em `docs/STORY.md` §4 e §7.2): m4 volta a 55 militares por assalto e a janela passa a 15m–39m (a missão ficou mais fácil no Fácil: 16m14s); m5 guarda o ouro do resgate só a partir dos 8 min, ergue 3 torres no Heraion e dimensiona a guarda pela Liga (no Difícil a 1ª onda dela chega aos ~7 min); m7 reagrupa o exército antes do assalto às naus; a IA deixou de fechar com uma mina o único veio de ouro da Liga (`sealsNode`), o que derrubava m7 Fácil e os Difíceis de m2/m3/m6. Todas as 7 missões vencem dentro da janela nas 3 dificuldades. ✅ roteiro da m9 (casas antes do teto de população, filas com as míticas do Templo e um alvo por vez na ordem da caminhada, com ≥ 40 militares: vitória aos 24m53s / 22m42s / 33m52s na janela estrita 17m30s–39m; passiva com derrota aos 13m39s / 11m25s / 7m36s). Pendente: roteiros das missões m8 e m10–m12 à medida que forem produzidas | A | 9–18 |
 | 3.6 | ✅ Dificuldade da campanha (Fácil/Normal/Difícil na aba Campanha: invasões roteirizadas 2/3 ou 1,5× e IAs inimigas um degrau acima; vale para a Horda) e conquistas por missão (uma por missão, prólogo no Difícil, Horda no Difícil); missões concluídas no Difícil ganham 🔥 | A | 18–20 |
 
